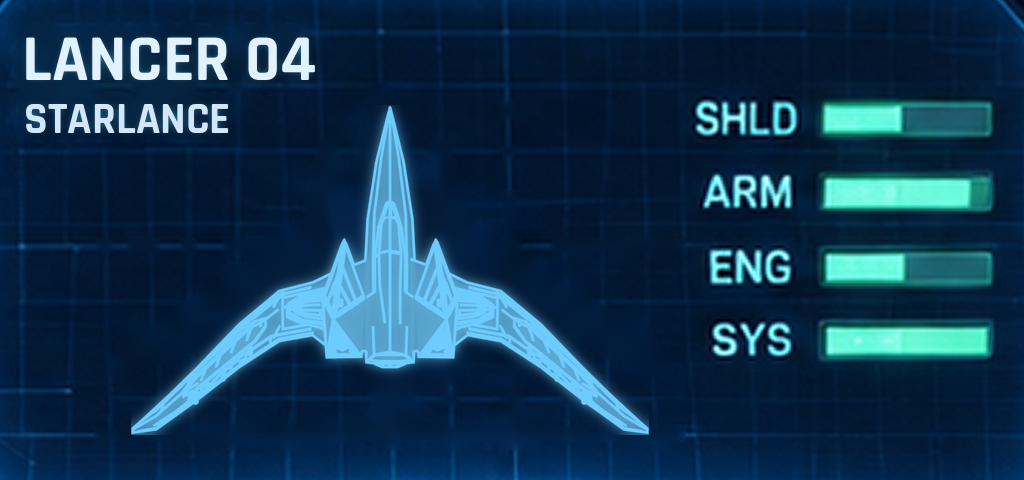
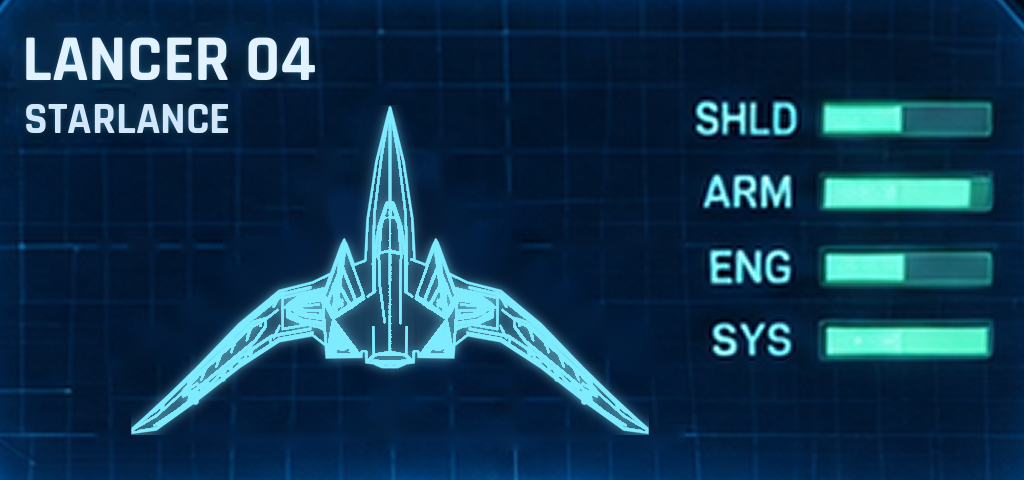
fix(sandbox): Starlance — reset dust plume and wind rates to zero, update rock mesh rendering logic

Changed region(s): [[0.125, 0.2188, 0.6562, 0.9062]]

diff --git a/starlance/src/render/stage.ts b/starlance/src/render/stage.ts
@@ -506,7 +506,14 @@ export function buildStage(rail: Rail, t: IStageTextures): IStage {
   archs.computeBoundingBox();
   root.add(archs);
 
-  for (const b of rockBatches) root.add(new Mesh(b.geo, b.mesa ? rockMesa : rockSpire));
+  // Each baked rock mesh is unique geometry, so the projection can never batch it: renderOrder 1 files
+  // it as an exact-lane draw instead of counting it toward the "unique geometry" decline warning.
+  const solid = (geo: BufferGeometry, mat: MeshStandardNodeMaterial): Mesh => {
+    const m = new Mesh(geo, mat);
+    m.renderOrder = 1;
+    return m;
+  };
+  for (const b of rockBatches) root.add(solid(b.geo, b.mesa ? rockMesa : rockSpire));
 
   // ---- canyon walls ---------------------------------------------------------------------------
   // Ledged, eroded cliffs from rocks.ts (strata colours in the vertex colour, world-space grain).
@@ -530,7 +537,7 @@ export function buildStage(rail: Rail, t: IStageTextures): IStage {
         env,
       });
     }
-    for (const wall of canyonWallChunks(stations, 77)) root.add(new Mesh(wall, rockSpire));
+    for (const wall of canyonWallChunks(stations, 77)) root.add(solid(wall, rockSpire));
   }
 
   // ---- ship shadow ----------------------------------------------------------------------------

diff --git a/starlance/src/render/ambientDust.ts b/starlance/src/render/ambientDust.ts
@@ -106,13 +106,13 @@ export const GROUND_DUST = {
   /** Pool size shared by the plumes and the wind sheet. */
   pool: 900,
   /** Plume puffs per second at full strength, over both wingtips together. */
-  plumeRate: 420,
+  plumeRate: 0,
   /** Altitude over the ground (m) where the plume is full and where it stops. */
   plumeAltitude: [6, 30] as const,
   /** Wingtip spacing of the two plumes (m). */
   wingSpan: 1.9,
   /** Wind sheet puffs per second (low drifting dust). */
-  windRate: 26,
+  windRate: 0,
   /** Dust devils: how many, how tall (m) and the spacing of their anchors along the course (m). */
   devils: 2,
   devilHeight: 46,

diff --git a/starlance/tools/cockpit-build.py b/starlance/tools/cockpit-build.py
@@ -12,7 +12,6 @@ parts per material; and keeps the moving parts as named nodes that src/render/co
 stick_L/R (+ trigger_L/R), yoke, pedal_L/R, throttle, lamp_L0..3 / lamp_R0..3.
 """
 
-import math
 import os
 import re
 import sys
@@ -25,21 +24,28 @@ from mathutils import Vector
 OUT = sys.argv[-1]
 
 DROP = re.compile(
-    r"^(HUD |Yoke face inset|Heading tape|Canopy inner glazing|"
+    r"^(HUD |Display line|Outside view backdrop|Yoke face inset|Heading tape|Canopy inner glazing|"
     r"Red fox insignia|Tactical fighter display|Crew communications display|Radar display|"
     r"Lower communications console|Lower weapons console|Crew portrait|Radar contact|Signal bar|"
     r"Comms indicator|Status gauge)"
 )
 STICK = re.compile(r"^(Ergonomic grip|Grip armored cap|Grip cap inset|Grip cap screw|Trigger black surround)")
 TRIGGER = re.compile(r"^Trigger luminous red")
-YOKE = re.compile(r"^(Yoke center shell|Yoke metal shaft|Yoke arm|Yoke pivot|Yoke crossbar|Yoke centerpiece|Yoke fox stencil)")
+YOKE = re.compile(r"^(Yoke center shell|Yoke metal shaft|Yoke arm|Yoke pivot|Yoke crossbar|Yoke centerpiece|Yoke Starlance emblem)")
 PEDAL = re.compile(r"^(Pilot pedal|Pedal grip)")
 LAMP = re.compile(r"^Switch lens")
 
-# The canopy window's outline (the glazing sheet is dropped below), in Blender x, z at y = 0.1.
-_glass = bpy.data.objects["Canopy inner glazing"]
-WINDOW = [(v.co.x, v.co.z) for v in _glass.data.vertices]
-WINDOW_Y = 0.42  # the back of the canopy frame
+# The yoke rig (yoke_pitch > yoke_roll > hub, arms, grips) is keyframed for the Blender preview: ship
+# its rest pose only; the game drives the one "yoke" node itself.
+bpy.context.scene.frame_set(1)
+for o in bpy.data.objects:
+    o.animation_data_clear()
+YOKE_FOOT = tuple(bpy.data.objects["yoke_pitch"].matrix_world.translation)
+for o in bpy.data.objects:  # step 1 deletes the rig's empties: keep their children where they stand
+    if o.parent is not None:
+        world = o.matrix_world.copy()
+        o.parent = None
+        o.matrix_world = world
 # 1. drop what must not ship -----------------------------------------------------------------
 for o in list(bpy.data.objects):
     if o.type != "MESH" or o.hide_render or DROP.match(o.name):
@@ -53,6 +59,54 @@ for o in list(bpy.data.objects):
         ):
             bpy.ops.object.convert(target="MESH")
 
+
+# glTF carries image maps, not node graphs: the .blend's grime, AO and hue nodes would export as
+# nothing. Wire each PBR map straight into its socket (cockpitLook.ts owns the tint and the wear) and
+# drop links the exporter cannot follow. The hull paint keeps the name cockpitLook.ts finishes.
+RENAME = {"Cobalt chipped paint": "Cobalt painted armor", "Console worn steel (shell)": "Console worn steel"}
+for o in bpy.data.objects:
+    for slot in o.material_slots:
+        if slot.material and slot.material.name in RENAME:
+            slot.material = bpy.data.materials.get(RENAME[slot.material.name]) or slot.material
+for name, new in RENAME.items():
+    m = bpy.data.materials.get(name)
+    if m is not None and new not in bpy.data.materials:
+        m.name = new
+SOCKET = {"_Color": "Base Color", "_Roughness": "Roughness", "_Metalness": "Metallic"}
+for m in bpy.data.materials:
+    if not m.use_nodes:
+        continue
+    nt = m.node_tree
+    bsdf = next((n for n in nt.nodes if n.type == "BSDF_PRINCIPLED"), None)
+    if bsdf is None:
+        continue
+    for name in ("Base Color", "Roughness", "Metallic", "Normal", "Alpha", "Emission Color"):
+        sock = bsdf.inputs[name]
+        if sock.is_linked and sock.links[0].from_node.type not in ("TEX_IMAGE", "NORMAL_MAP"):
+            nt.links.remove(sock.links[0])
+    for n in nt.nodes:
+        if n.type == "TEX_IMAGE" and n.image:
+            for tag, name in SOCKET.items():
+                if tag in n.image.name and not bsdf.inputs[name].is_linked:
+                    nt.links.new(n.outputs["Color"], bsdf.inputs[name])
+        if n.type == "NORMAL_MAP" and not bsdf.inputs["Normal"].is_linked:
+            nt.links.new(n.outputs["Normal"], bsdf.inputs["Normal"])
+    if m.name == "Cobalt painted armor" and bsdf.inputs["Base Color"].is_linked:
+        nt.links.remove(bsdf.inputs["Base Color"].links[0])  # the scan is re-hued in Blender: ship the tint only
+        bsdf.inputs["Base Color"].default_value = (0.04, 0.13, 0.62, 1)
+
+# Box-project UVs (1 unit = 1.25 m) onto parts modelled without any: the hull pods and console shells.
+for o in bpy.data.objects:
+    if o.type == "MESH" and not o.data.uv_layers:
+        me = o.data
+        uv = me.uv_layers.new(name="UVMap")
+        for poly in me.polygons:
+            n = poly.normal
+            ax = max(range(3), key=lambda i: abs(n[i]))
+            a, b = [i for i in range(3) if i != ax]
+            for li in poly.loop_indices:
+                co = o.matrix_world @ me.vertices[me.loops[li].vertex_index].co
+                uv.data[li].uv = (co[a] * 0.8, co[b] * 0.8)
 
 # One UV layer, one name: join() keeps the first object's layer and drops the rest into other layers,
 # which would leave the joined faces with empty UVs (a stipple through every normal map).
@@ -84,9 +138,7 @@ for o in list(bpy.data.objects):
         continue
     if TRIGGER.match(n):
         key = "trigger_" + side(o)
-    elif STICK.match(n):
-        key = "stick_" + side(o)
-    elif YOKE.match(n):
+    elif STICK.match(n) or YOKE.match(n):
         key = "yoke"
     elif PEDAL.match(n):
         key = "pedal_" + side(o)
@@ -161,11 +213,9 @@ def adopt(o, parent):
 
 
 pivots = {
-    "stick_L": (-1.0, -2.2, -0.45),
-    "stick_R": (1.0, -2.2, -0.45),
-    "yoke": (0.0, -1.5, -0.5),  # the base of the shaft, so the handle leans about its foot
-    "pedal_L": (-0.82, -1.24, -0.85),
-    "pedal_R": (0.82, -1.24, -0.85),
+    "yoke": YOKE_FOOT,  # the column foot, so the handle leans about it
+    "pedal_L": (-0.82, -1.24, -0.22),
+    "pedal_R": (0.82, -1.24, -0.22),
 }
 nodes = {}
 for name, loc in pivots.items():
@@ -175,14 +225,7 @@ for name, loc in pivots.items():
 for s in "LR":
     for o in joined.get("trigger_" + s, []):
         o.name = "trigger_" + s
-        adopt(o, nodes["stick_" + s])
-# Shorter and a little thicker, so a grip clears the lower screens (it sits nearer the eye than they do,
-# so it projects outward over them): the cockpit's source grips are 1.3 m tall.
-for s in "LR":
-    nodes["stick_" + s].scale = (1.0, 1.0, 0.6)
-# The yoke is one rigid group (hub, two grips, column) on one pivot at the column foot, lifted so a stub
-# of the column shows under the head at the bottom edge.
-nodes["yoke"].location.z += 0.2
+        adopt(o, nodes["yoke"])
 
 
 # 6. new parts: throttle slider beside the stores screen, Starlance marks ---------------------------------
@@ -202,7 +245,7 @@ def box(name, size, centre, mat, parent=None):
     return o
 
 
-TH = (-1.68, -0.3, -0.05)  # a vertical throttle slot beside the stores screen; the knob slides up to boost
+TH = (-1.68, -0.3, 0.55)  # a vertical throttle slot beside the stores screen; the knob slides up to boost
 throttle = empty("throttle", TH)
 box("throttle_slot", (0.1, 0.04, 0.56), TH, "Soft black rubber")
 box("throttle_rail", (0.02, 0.05, 0.5), (TH[0], TH[1] - 0.005, TH[2]), "Edge steel")
@@ -210,69 +253,8 @@ box("throttle_knob", (0.17, 0.08, 0.07), (TH[0], TH[1] - 0.05, TH[2]), "Edge ste
 box("throttle_grip", (0.12, 0.09, 0.025), (TH[0], TH[1] - 0.052, TH[2]), "Amber switch lights", throttle)
 
 
-def canopy_plate():
-    """The roof and cheek panels round the canopy window. The source scene frames the arch tight; a
-    wider lens past it looked out over its edges, so this solid sheet (hole = the window) closes them."""
-    cx = sum(p[0] for p in WINDOW) / len(WINDOW)
-    cz = sum(p[1] for p in WINDOW) / len(WINDOW)
-    # Convex window, ordered by angle round its centre.
-    ring = sorted(WINDOW, key=lambda p: math.atan2(p[1] - cz, p[0] - cx))
-    X0, X1, Z0, Z1 = -14.0, 14.0, -1.0, 14.0
-    outer = []
-    for x, z in ring:  # push each window vertex radially out to the big rectangle
-        dx, dz = x - cx, z - cz
-        k = min(
-            ((X1 if dx > 0 else X0) - cx) / dx if dx else 1e9,
-            ((Z1 if dz > 0 else Z0) - cz) / dz if dz else 1e9,
-        )
-        outer.append((cx + dx * k, cz + dz * k))
-    bm = bmesh.new()
-    inner_v = [bm.verts.new((x, WINDOW_Y, z)) for x, z in ring]
-    outer_v = [bm.verts.new((x, WINDOW_Y, z)) for x, z in outer]
-    corners = {c: bm.verts.new((c[0], WINDOW_Y, c[1])) for c in ((X0, Z0), (X1, Z0), (X1, Z1), (X0, Z1))}
-    n = len(ring)
-    for i in range(n):
-        j = (i + 1) % n
-        a, b = outer[i], outer[j]
-        quad = [inner_v[i], inner_v[j], outer_v[j], outer_v[i]]
-        bm.faces.new(quad)
-        # Consecutive outer points on different rectangle edges leave a corner to fill.
-        for (cxx, czz), cv in corners.items():
-            if all(abs(p[0] - cxx) < 1e-6 or abs(p[1] - czz) < 1e-6 for p in (a, b)) and a[0] != b[0] and a[1] != b[1]:
-                bm.faces.new([outer_v[i], outer_v[j], cv])
-    bmesh.ops.recalc_face_normals(bm, faces=bm.faces)
-    for f in bm.faces:  # face the pilot (-Y), double-sided anyway
-        if f.normal.y > 0:
-            f.normal_flip()
-    me = bpy.data.meshes.new("canopy_plate")
-    bm.to_mesh(me)
-    bm.free()
-    lining = bpy.data.materials.new("Cockpit headliner")
-    lining.use_nodes = True
-    bsdf = next(n for n in lining.node_tree.nodes if n.type == "BSDF_PRINCIPLED")
-    bsdf.inputs["Base Color"].default_value = (0.004, 0.004, 0.005, 1)
-    bsdf.inputs["Roughness"].default_value = 1.0
-    bsdf.inputs["Metallic"].default_value = 0.0
-    bsdf.inputs["Specular IOR Level"].default_value = 0.0
-    me.materials.append(lining)
-    o = bpy.data.objects.new("static_canopy_plate", me)
-    bpy.context.scene.collection.objects.link(o)
-    uv = me.uv_layers.new(name="UVMap")
-    for loop in me.loops:
-        v = me.vertices[loop.vertex_index].co
-        uv.data[loop.index].uv = (v.x * 0.25, v.z * 0.25)
-    return o
-
-
-canopy_plate()
-
-
 BRAND_IMAGES = {"emblem-alpha", "wordmark-alpha", "spear-alpha.png"}  # keyed marks (alpha) in the .blend
 
-# Red trigger caps on the two handgrips (the arms), in the yoke group.
-_red = bpy.data.materials.get("Red switch") or bpy.data.materials.new("Red switch")
-for sx in (-1, 1):
-    box("yoke_cap_" + ("L" if sx < 0 else "R"), (0.13, 0.07, 0.13), (sx * 0.66, -2.03, 0.72), _red.name, nodes["yoke"])
 
 # 6b. ambient occlusion into vertex colours (COLOR_0 multiplies the albedo): every seam, bevel and
 # corner reads dark, and the interior sits under its canopy. Baked at the rest pose.
@@ -302,8 +284,6 @@ for o in meshes:
     attr.data.foreach_get("color", buf)
     buf = buf.reshape(-1, 4)
     buf[:, :3] = AO_FLOOR + (1 - AO_FLOOR) * buf[:, :3]
-    if o.name.startswith("static_canopy_plate"):
-        buf[:, :3] = 0.15  # a lining behind the frame: never lit by the sky
     attr.data.foreach_set("color", buf.reshape(-1))
 print("AO baked on", len(meshes), "meshes")
 

diff --git a/starlance/tools/cockpit-brand/rebrand.py b/starlance/tools/cockpit-brand/rebrand.py
@@ -48,15 +48,20 @@ def soft_text(img, xy, text, font, fill=(206, 222, 236)):
     img.alpha_composite(layer.filter(ImageFilter.GaussianBlur(0.9)))
 
 
-def ship_layer(size, color):
+def ship_layer(size, color, wire=False):
     s = Image.open(ship_png).convert("RGBA")
     s = s.crop(s.getbbox())
     s.thumbnail(size, Image.LANCZOS)
     a = np.asarray(s).astype(np.float32)
     lum = a[..., :3].mean(2) / 255.0
     out = np.zeros_like(a)
-    out[..., :3] = np.array(color, np.float32) * (0.55 + 0.6 * lum[..., None])
-    out[..., 3] = a[..., 3]
+    if wire:  # bright edge lines over a dim see-through fill, like a hologram schematic
+        line = lum > 0.6
+        out[..., :3] = np.array(color, np.float32) * np.where(line, 1.15, 0.5)[..., None]
+        out[..., 3] = a[..., 3] * np.where(line, 1.0, 0.28)
+    else:
+        out[..., :3] = np.array(color, np.float32) * (0.55 + 0.6 * lum[..., None])
+        out[..., 3] = a[..., 3]
     s = Image.fromarray(np.clip(out, 0, 255).astype(np.uint8))
     g = Image.new("RGBA", s.size)
     g.alpha_composite(s.filter(ImageFilter.GaussianBlur(6)))
@@ -74,7 +79,7 @@ def rounded(w, h, r):
 c = inpaint(Image.open(f"{SRC}/center-clean.png"), [(10, 25, 320, 145), (100, 80, 680, 445)], thr=20, grow=13).convert("RGBA")
 glow_text(c, (22, 18), "LANCER 04", ImageFont.truetype(RAJ, 66), (226, 242, 255))
 glow_text(c, (24, 92), "STARLANCE", ImageFont.truetype(RAJ, 44), (210, 232, 250))
-sh = ship_layer((560, 330), (110, 205, 255))
+sh = ship_layer((560, 330), (110, 205, 255), wire=True)
 c.alpha_composite(sh, (390 - sh.width // 2, 270 - sh.height // 2))
 c.convert("RGB").save(f"{HERE}/sl-center.png")
 
